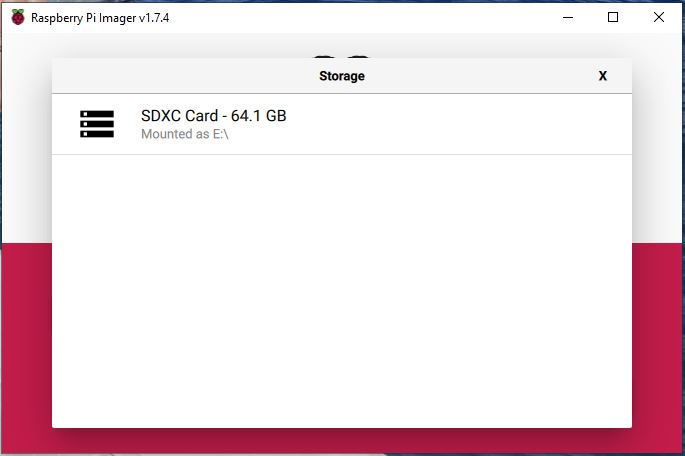
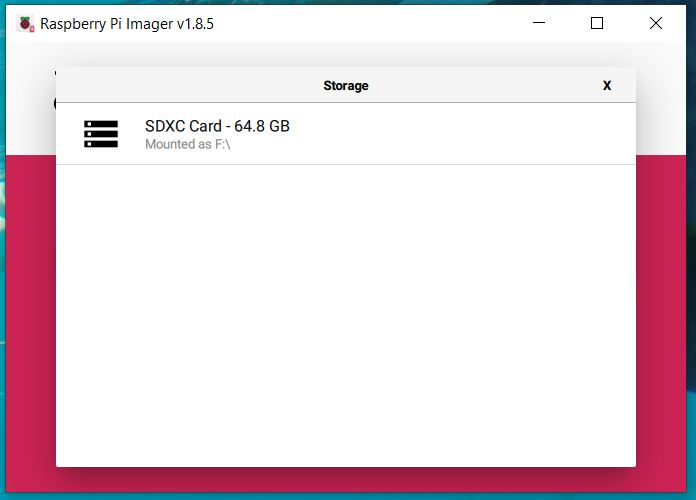
New OS image; New imager version

Changed region(s): [[0.0, 0.0, 1.0, 1.0], [0.4599, 0.1228, 0.5518, 0.1842], [0.8584, 0.1535, 0.8891, 0.1842]]

diff --git a/README.md b/README.md
@@ -11,6 +11,14 @@ All setup and configuration can be done from a Windows PC.  You don't need to lo
 See the Quick Start Guide in Section 1 below to get your station up and running.  
 See Section 2 if you want do dive a litte deeper into the details.  
 
+## Changelog  
+#### 2023-03-24
+- Pre-built image: `2024-03-24-rpi-sonde.img.xz`  
+  -- Includes RTL-SDR V4 driver  
+  -- Supports Radiosonde Auto-RX 1.7.2  
+- Instructions support Raspberry Pi Imager v1.8.5  
+
+
 ## Table of Contents
 1.    [Quick Start Guide](#quick-start-guide)  
 1.1   [Hardware Needed](#hardware-needed)  
@@ -40,15 +48,16 @@ Follow these instructions to get your station up and running.
 Note that some knowledge of Windows and Raspberry Pi is assumed.  
 
 ### 1.1 Hardware Needed <a name="hardware-needed"></a>  
-- [Raspberry Pi 3/4](https://www.raspberrypi.com/) with power supply  
+- [Raspberry Pi 3/4/5](https://www.raspberrypi.com/) with power supply  
 - [RTL-SDR dongle](https://www.rtl-sdr.com/rtl-sdr-quick-start-guide)  
 - Micro SD card in the range 8GB - 64GB  
 - Antenna suitable for the 400-406 MHz frequency range  
 
 ### 1.2 Software Needed <a name="software-needed"></a>  
 - The pre-built RTL-SDR Automatic Radiosonde Receiver Image located here:  
-https://www.dropbox.com/scl/fi/8tvo4vkd44ar3fgo6kzqs/2023-10-10-rpi-sonde.img.xz?rlkey=iquluja5slma2z61zbhek1drq&dl=0  
-You will need to download this image to your local PC - Note that the file size is 1.6 GB  
+https://www.dropbox.com/scl/fi/f5el392g9gnou3hew7234/2024-03-24-rpi-sonde.img.xz?rlkey=ywmumf9hdnjjxgro792vc5dpu&dl=0
+
+You will need to download this image to your local PC - Note that at least 2.1 GB of disk space is needed.  
 
 ### 1.3 Configuration Information Needed <a name="config-info-needed"></a>  
 You will need the following information to customize your station:  
@@ -76,37 +85,38 @@ The download page is here: https://www.raspberrypi.com/software
 
    <img src="./images/RaspberryPiImagerMain.jpg" alt="Raspberry Pi Imager" width="480"/>  
 
-4. Click the **CHOOSE OS** button.  
+4. Click the **CHOOSE DEVICE** button.  
+   Select the Raspberry Pi device you are using.  
+   
+5. Click the **CHOOSE OS** button.  
    Scroll down and click the **Use custom** option.  
    Navigate to the folder containing the pre-built image downloaded in Step 1 and select it.  
 
    <img src="./images/RaspberryPiImagerChooseOS.jpg" alt="Choose OS" width="480"/>  
 
-5. Click the **CHOOSE STORAGE** button.  
+6. Click the **CHOOSE STORAGE** button.  
    Select the Micro SD card inserted in Step 2.  
 
    <img src="./images/RaspberryPiImagerChooseStorage.jpg" alt="Choose Storage" width="480"/>  
 
-6. An *Advanced Options* button with a gear icon will appear on the main window. Click it.  
-   Select Image customization options **to always use**.  
-   Uncheck all customization options. Scroll down to make sure all options are unchecked.  
-   Leave the boxes in *Persistent Settings* checked.  
-   Click **SAVE**   
+7. Click the **NEXT** button.
+   A dialog box will appear with the question *Would you like to apply OS customisation settings?"  
+   Click **NO**    
 
-   <img src="./images/RaspberryPiImagerAdvanced.jpg" alt="Advanced Options" width="480"/>  
-
-7. Click the **WRITE** button.  An "*Are you sure you want to continue?*" warning message will be displayed. Click **YES**.  
+   <img src="./images/RaspberryPiImagerCustomisation.jpg" alt="Customisation Options" width="480"/>  
+   
+   A warning will appear that all existing data will be erased.  Click **YES** to continue.  
    The imager will write the image to the SD card and verify it.  
-   When complete, a *Write Successful* message box will appear.  
+
+8. When complete, a *Write Successful* message box will appear.  
    Remove the SD card and click **CONTINUE**.  
    Close the Raspberry Pi Imager application.  
    
    <img src="./images/RaspberryPiImagerComplete.jpg" alt="Write Successful" width="480"/> 
 
-8. A Windows File Explorer window may open with an error message saying that a drive is not accessible. This error can be ignored and dismissed.
+9. A Windows File Explorer window may open with an error message saying that a drive is not accessible. This error can be ignored and dismissed.
 
-   <img src="./images/LocationNotAvailable.jpg" alt="Location Not Available" />
-
+   <img src="./images/LocationNotAvailable.jpg" alt="Location Not Available" />  
 
 ### 1.6 Station Customization <a name="station-customization"></a>
 
